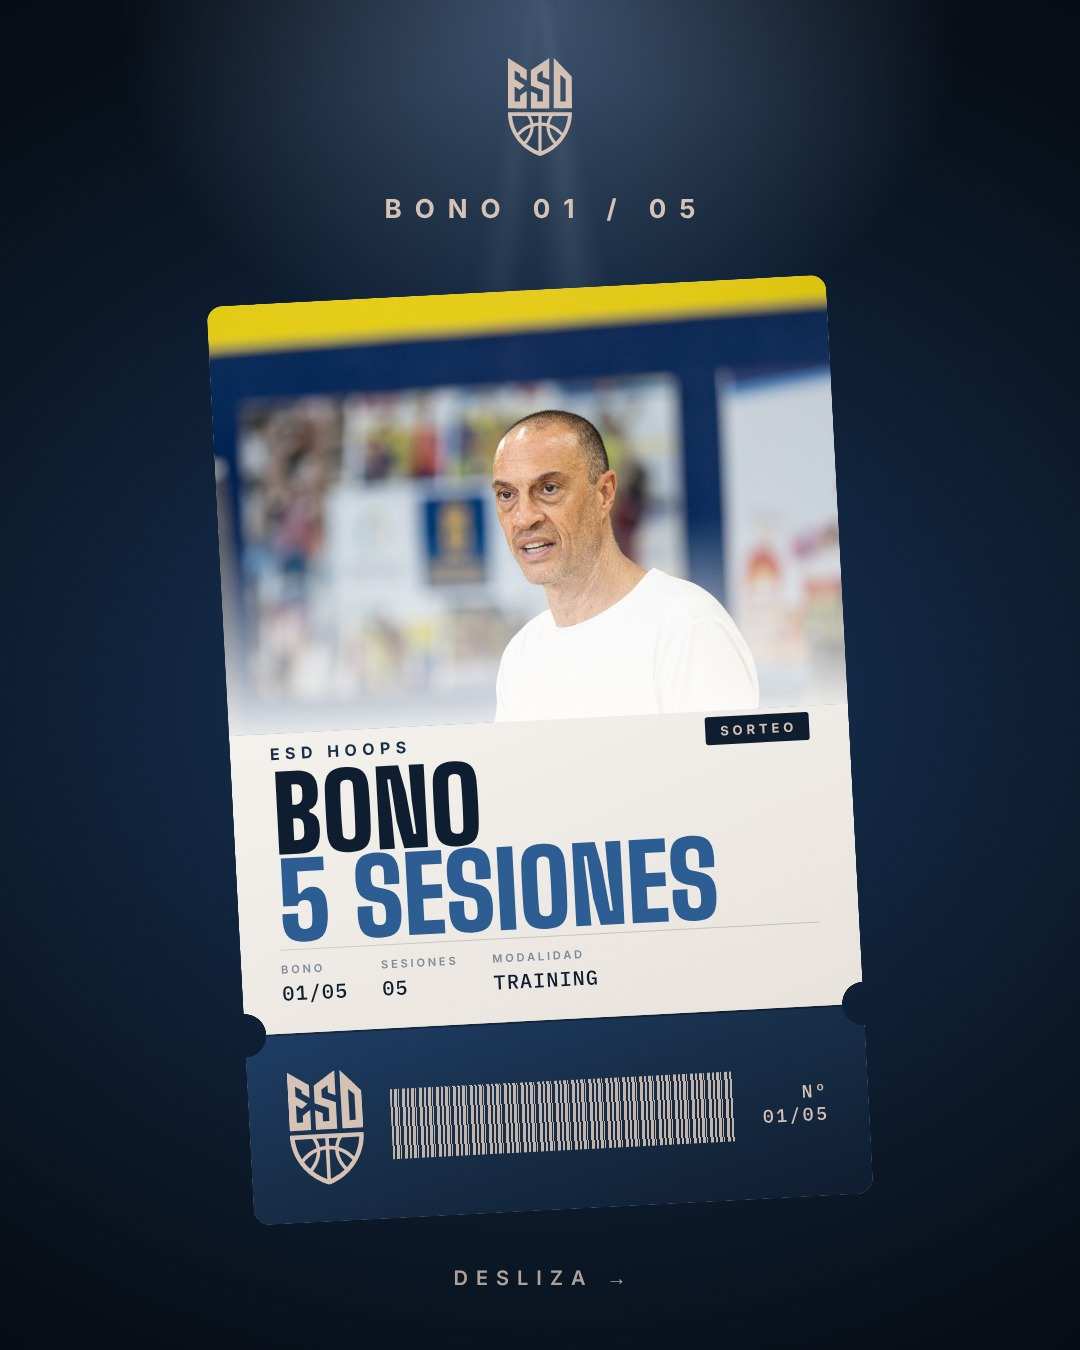
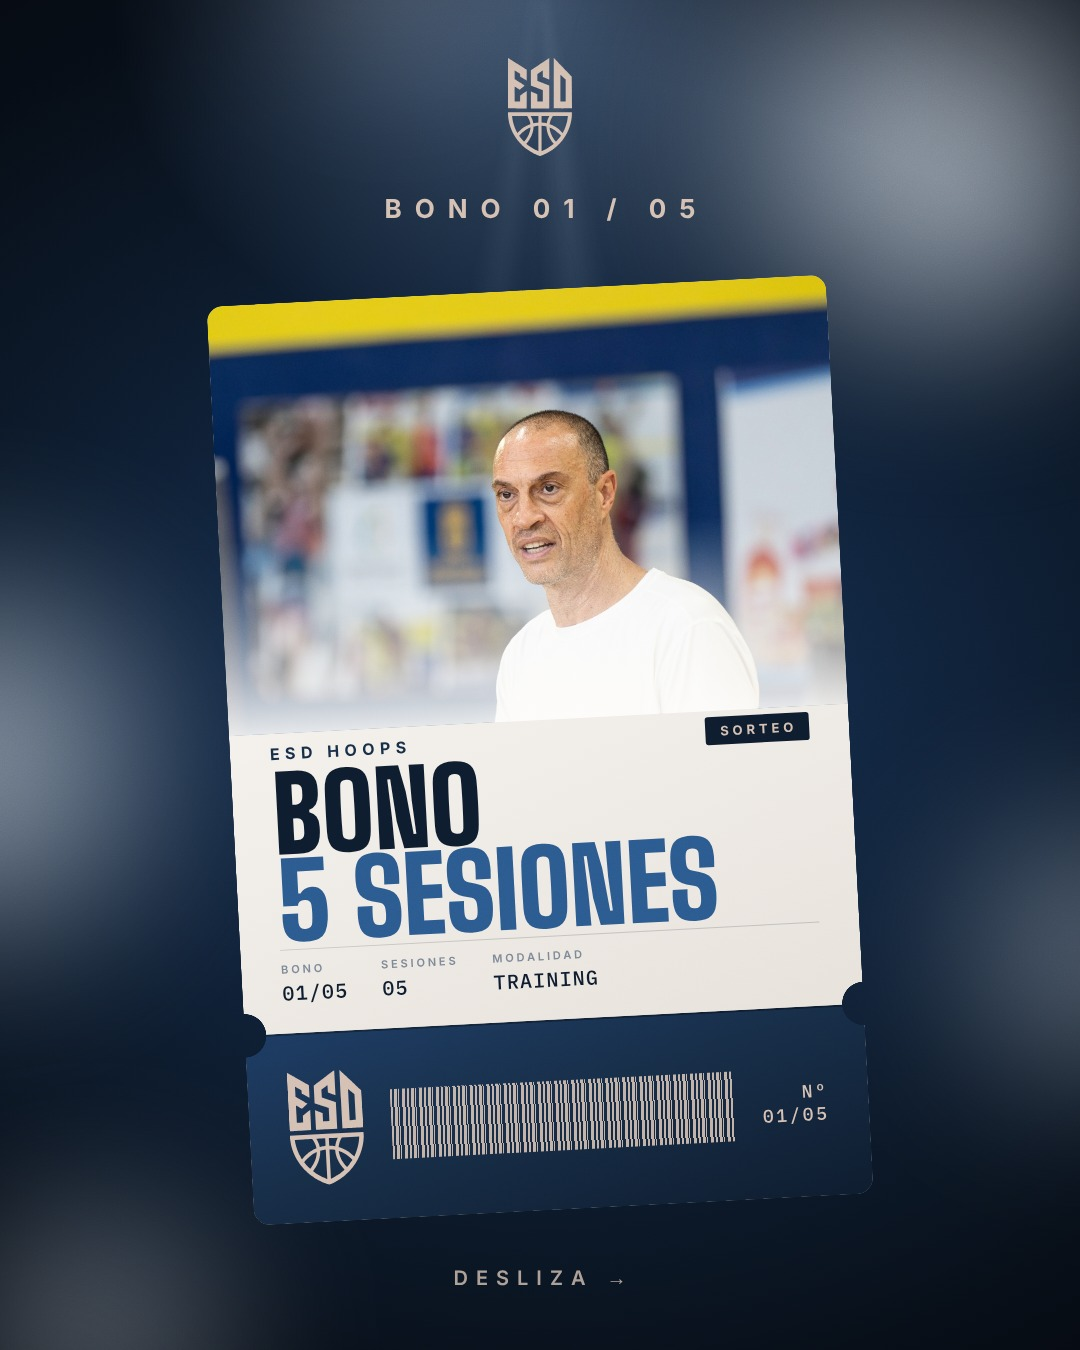
Add soft glow effect to giveaway carousel
Claude-Session: https://claude.ai/code/session_01GrUAUBc3Cn1CSSNR3fCGFR

diff --git a/brand/social/feed4/a-sorteo-ticket-pro-2.html b/brand/social/feed4/a-sorteo-ticket-pro-2.html
@@ -32,8 +32,16 @@
 .st { left: 50%; translate: -50% 0; bottom: 58px; display: flex; border: 1.5px solid rgba(212,192,179,.6); }
 .st span { font: 600 18px/1 'Inter'; letter-spacing: .3em; text-transform: uppercase; color: var(--arena); padding: 16px 22px 15px 28px; white-space: nowrap; }
 .st span + span { border-left: 1.5px solid rgba(212,192,179,.6); }
+
+.glow { inset: 0; pointer-events: none; }
+.glow i { position: absolute; border-radius: 50%; filter: blur(70px); background: radial-gradient(circle, rgba(220,230,242,.85) 0%, rgba(220,230,242,.3) 45%, transparent 70%); }
+.glow .g1 { width: 620px; height: 460px; right: -170px; top: -80px; }
+.glow .g2 { width: 420px; height: 560px; left: -230px; top: 480px; opacity: .85; }
+.glow .g3 { width: 380px; height: 380px; right: -200px; top: 760px; opacity: .55; }
+.glow .g4 { width: 460px; height: 320px; left: -140px; bottom: -150px; opacity: .6; }
+.glow .g5 { width: 300px; height: 260px; left: 240px; top: -170px; opacity: .45; }
 </style></head><body><div class="canvas grain">
-<div class="abs beam"></div>
+<div class="abs beam"></div><div class="abs glow"><i class="g1"></i><i class="g2"></i><i class="g3"></i><i class="g4"></i><i class="g5"></i></div>
 <img class="abs lg" src="../../logo/esd-logo-arena.svg" alt="ESD Hoops">
 <div class="abs k2">Bono 01 / 05</div>
 <div class="tv"><div class="ph" style="background-image:url(../../../assets/img/fotos/entrenadores/coach-01.jpg);background-position:50% 42%"></div>

diff --git a/brand/social/feed4/a-sorteo-ticket-pro-3.html b/brand/social/feed4/a-sorteo-ticket-pro-3.html
@@ -32,8 +32,16 @@
 .st { left: 50%; translate: -50% 0; bottom: 58px; display: flex; border: 1.5px solid rgba(212,192,179,.6); }
 .st span { font: 600 18px/1 'Inter'; letter-spacing: .3em; text-transform: uppercase; color: var(--arena); padding: 16px 22px 15px 28px; white-space: nowrap; }
 .st span + span { border-left: 1.5px solid rgba(212,192,179,.6); }
+
+.glow { inset: 0; pointer-events: none; }
+.glow i { position: absolute; border-radius: 50%; filter: blur(70px); background: radial-gradient(circle, rgba(220,230,242,.85) 0%, rgba(220,230,242,.3) 45%, transparent 70%); }
+.glow .g1 { width: 620px; height: 460px; right: -170px; top: -80px; }
+.glow .g2 { width: 420px; height: 560px; left: -230px; top: 480px; opacity: .85; }
+.glow .g3 { width: 380px; height: 380px; right: -200px; top: 760px; opacity: .55; }
+.glow .g4 { width: 460px; height: 320px; left: -140px; bottom: -150px; opacity: .6; }
+.glow .g5 { width: 300px; height: 260px; left: 240px; top: -170px; opacity: .45; }
 </style></head><body><div class="canvas grain">
-<div class="abs beam"></div>
+<div class="abs beam"></div><div class="abs glow"><i class="g1"></i><i class="g2"></i><i class="g3"></i><i class="g4"></i><i class="g5"></i></div>
 <img class="abs lg" src="../../logo/esd-logo-arena.svg" alt="ESD Hoops">
 <div class="abs k2">Bono 02 / 05</div>
 <div class="tv"><div class="ph" style="background-image:url(../../../assets/img/fotos/entrenadores/coach-02.jpg);background-position:12% 30%"></div>

diff --git a/brand/social/feed4/a-sorteo-ticket-pro-4.html b/brand/social/feed4/a-sorteo-ticket-pro-4.html
@@ -32,8 +32,16 @@
 .st { left: 50%; translate: -50% 0; bottom: 58px; display: flex; border: 1.5px solid rgba(212,192,179,.6); }
 .st span { font: 600 18px/1 'Inter'; letter-spacing: .3em; text-transform: uppercase; color: var(--arena); padding: 16px 22px 15px 28px; white-space: nowrap; }
 .st span + span { border-left: 1.5px solid rgba(212,192,179,.6); }
+
+.glow { inset: 0; pointer-events: none; }
+.glow i { position: absolute; border-radius: 50%; filter: blur(70px); background: radial-gradient(circle, rgba(220,230,242,.85) 0%, rgba(220,230,242,.3) 45%, transparent 70%); }
+.glow .g1 { width: 620px; height: 460px; right: -170px; top: -80px; }
+.glow .g2 { width: 420px; height: 560px; left: -230px; top: 480px; opacity: .85; }
+.glow .g3 { width: 380px; height: 380px; right: -200px; top: 760px; opacity: .55; }
+.glow .g4 { width: 460px; height: 320px; left: -140px; bottom: -150px; opacity: .6; }
+.glow .g5 { width: 300px; height: 260px; left: 240px; top: -170px; opacity: .45; }
 </style></head><body><div class="canvas grain">
-<div class="abs beam"></div>
+<div class="abs beam"></div><div class="abs glow"><i class="g1"></i><i class="g2"></i><i class="g3"></i><i class="g4"></i><i class="g5"></i></div>
 <img class="abs lg" src="../../logo/esd-logo-arena.svg" alt="ESD Hoops">
 <div class="abs k2">Bono 03 / 05</div>
 <div class="tv"><div class="ph" style="background-image:url(../../../assets/img/fotos/entrenadores/coach-03.jpg);background-position:52% 38%"></div>

diff --git a/brand/social/feed4/a-sorteo-ticket-pro-5.html b/brand/social/feed4/a-sorteo-ticket-pro-5.html
@@ -32,8 +32,16 @@
 .st { left: 50%; translate: -50% 0; bottom: 58px; display: flex; border: 1.5px solid rgba(212,192,179,.6); }
 .st span { font: 600 18px/1 'Inter'; letter-spacing: .3em; text-transform: uppercase; color: var(--arena); padding: 16px 22px 15px 28px; white-space: nowrap; }
 .st span + span { border-left: 1.5px solid rgba(212,192,179,.6); }
+
+.glow { inset: 0; pointer-events: none; }
+.glow i { position: absolute; border-radius: 50%; filter: blur(70px); background: radial-gradient(circle, rgba(220,230,242,.85) 0%, rgba(220,230,242,.3) 45%, transparent 70%); }
+.glow .g1 { width: 620px; height: 460px; right: -170px; top: -80px; }
+.glow .g2 { width: 420px; height: 560px; left: -230px; top: 480px; opacity: .85; }
+.glow .g3 { width: 380px; height: 380px; right: -200px; top: 760px; opacity: .55; }
+.glow .g4 { width: 460px; height: 320px; left: -140px; bottom: -150px; opacity: .6; }
+.glow .g5 { width: 300px; height: 260px; left: 240px; top: -170px; opacity: .45; }
 </style></head><body><div class="canvas grain">
-<div class="abs beam"></div>
+<div class="abs beam"></div><div class="abs glow"><i class="g1"></i><i class="g2"></i><i class="g3"></i><i class="g4"></i><i class="g5"></i></div>
 <img class="abs lg" src="../../logo/esd-logo-arena.svg" alt="ESD Hoops">
 <div class="abs k2">Bono 04 / 05</div>
 <div class="tv"><div class="ph" style="background-image:url(../../../assets/img/fotos/entrenadores/coach-04.jpg);background-position:52% 40%"></div>

diff --git a/brand/social/feed4/a-sorteo-ticket-pro-6.html b/brand/social/feed4/a-sorteo-ticket-pro-6.html
@@ -32,8 +32,16 @@
 .st { left: 50%; translate: -50% 0; bottom: 58px; display: flex; border: 1.5px solid rgba(212,192,179,.6); }
 .st span { font: 600 18px/1 'Inter'; letter-spacing: .3em; text-transform: uppercase; color: var(--arena); padding: 16px 22px 15px 28px; white-space: nowrap; }
 .st span + span { border-left: 1.5px solid rgba(212,192,179,.6); }
+
+.glow { inset: 0; pointer-events: none; }
+.glow i { position: absolute; border-radius: 50%; filter: blur(70px); background: radial-gradient(circle, rgba(220,230,242,.85) 0%, rgba(220,230,242,.3) 45%, transparent 70%); }
+.glow .g1 { width: 620px; height: 460px; right: -170px; top: -80px; }
+.glow .g2 { width: 420px; height: 560px; left: -230px; top: 480px; opacity: .85; }
+.glow .g3 { width: 380px; height: 380px; right: -200px; top: 760px; opacity: .55; }
+.glow .g4 { width: 460px; height: 320px; left: -140px; bottom: -150px; opacity: .6; }
+.glow .g5 { width: 300px; height: 260px; left: 240px; top: -170px; opacity: .45; }
 </style></head><body><div class="canvas grain">
-<div class="abs beam"></div>
+<div class="abs beam"></div><div class="abs glow"><i class="g1"></i><i class="g2"></i><i class="g3"></i><i class="g4"></i><i class="g5"></i></div>
 <img class="abs lg" src="../../logo/esd-logo-arena.svg" alt="ESD Hoops">
 <div class="abs k2">Bono 05 / 05</div>
 <div class="tv"><div class="ph" style="background-image:url(../../../assets/img/fotos/entrenadores/coach-05.jpg);background-position:45% 40%"></div>

diff --git a/brand/social/feed4/a-sorteo-ticket-pro.html b/brand/social/feed4/a-sorteo-ticket-pro.html
@@ -37,8 +37,16 @@
 .st { left: 50%; translate: -50% 0; bottom: 62px; display: flex; gap: 0; border: 1.5px solid rgba(212,192,179,.6); }
 .st span { font: 600 18px/1 'Inter'; letter-spacing: .3em; text-transform: uppercase; color: var(--arena); padding: 16px 22px 15px 28px; white-space: nowrap; }
 .st span + span { border-left: 1.5px solid rgba(212,192,179,.6); }
+
+.glow { inset: 0; pointer-events: none; }
+.glow i { position: absolute; border-radius: 50%; filter: blur(70px); background: radial-gradient(circle, rgba(220,230,242,.85) 0%, rgba(220,230,242,.3) 45%, transparent 70%); }
+.glow .g1 { width: 620px; height: 460px; right: -170px; top: -80px; }
+.glow .g2 { width: 420px; height: 560px; left: -230px; top: 480px; opacity: .85; }
+.glow .g3 { width: 380px; height: 380px; right: -200px; top: 760px; opacity: .55; }
+.glow .g4 { width: 460px; height: 320px; left: -140px; bottom: -150px; opacity: .6; }
+.glow .g5 { width: 300px; height: 260px; left: 240px; top: -170px; opacity: .45; }
 </style></head><body><div class="canvas grain">
-<div class="abs beam"></div>
+<div class="abs beam"></div><div class="abs glow"><i class="g1"></i><i class="g2"></i><i class="g3"></i><i class="g4"></i><i class="g5"></i></div>
 <img class="abs lg" src="../../logo/esd-logo-arena.svg" alt="ESD Hoops">
 <div class="abs top">Sorteo <b>·</b> ESD Hoops</div>
 <div class="abs w o w1">Sorteo</div><div class="abs w w2">Sorteo</div><div class="abs w o w3">Sorteo</div>
